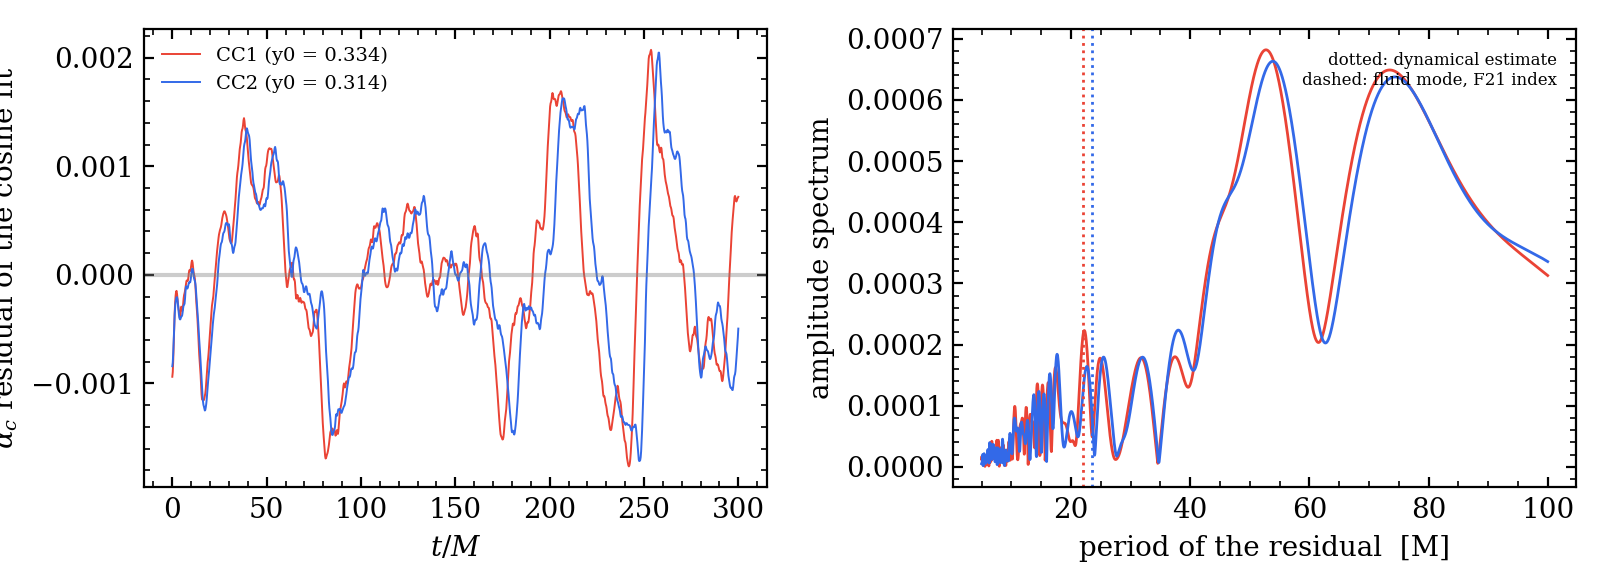
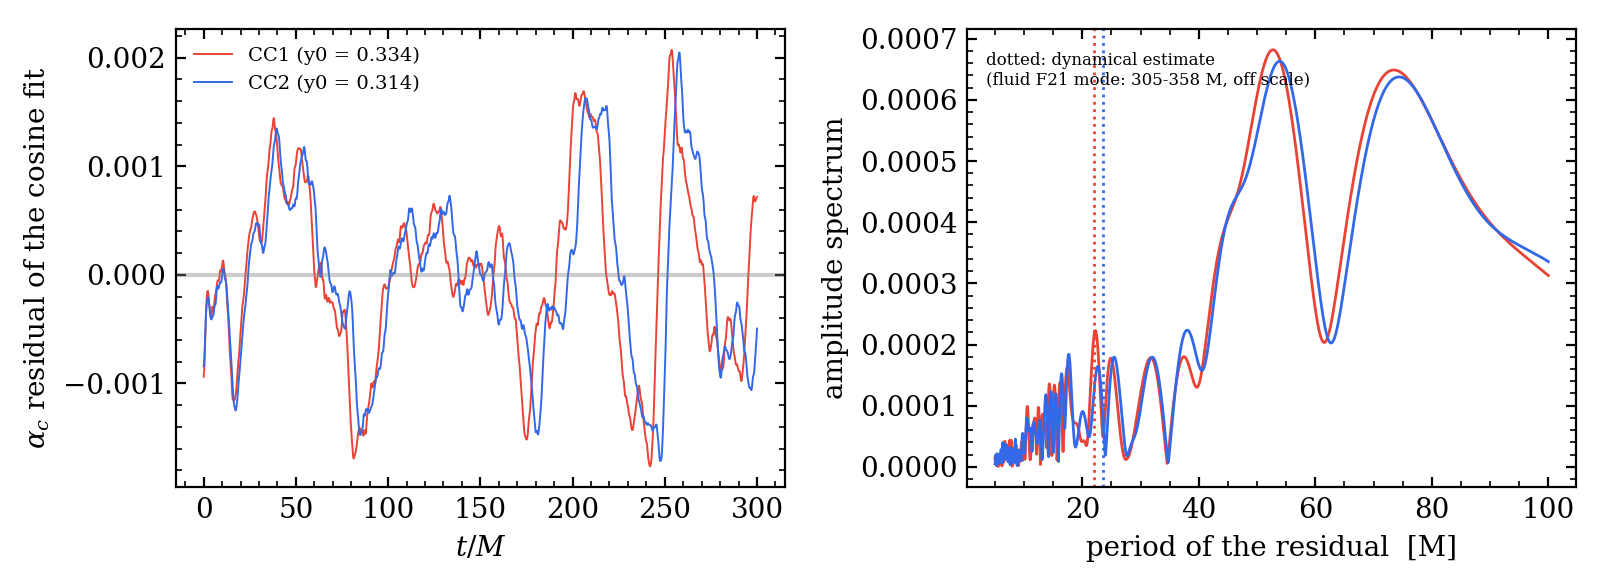
drift: D1b registers the fluid periods at y0 = 0.26 (260-326 M); figures replaced

diff --git a/tracks/C-sidm/drift/JOURNAL.md b/tracks/C-sidm/drift/JOURNAL.md
@@ -259,3 +259,7 @@ A is below CC2's 0.0086 (a stiffer model responds less). The fluid period with t
 index at y0 = 0.26 is 260 M [TO VERIFY: quick evaluation of models/fluid_onset.omega2,
 N = 600; `controls.py --pulsation` now includes y0 = 0.26 and registers it with the next
 analysis run]. Refuted if P(0.26) >= P(CC2) or A(0.26) >= A(CC2).
+- Registered (run C-20261120-223139-2526c6d, D1b: D1 rerun with corrected figures, numbers of
+  D1 unchanged): at y0 = 0.26 the fluid period is 259.7 M with the F21 index, 325.9 M with
+  the Juttner Gamma_1(theta_E), 317.5 M with the scaled proxy (the [TO VERIFY] above is
+  now [VERIFIED]). Figures of D1b replace those of D1 in `figs/` (looked at).
